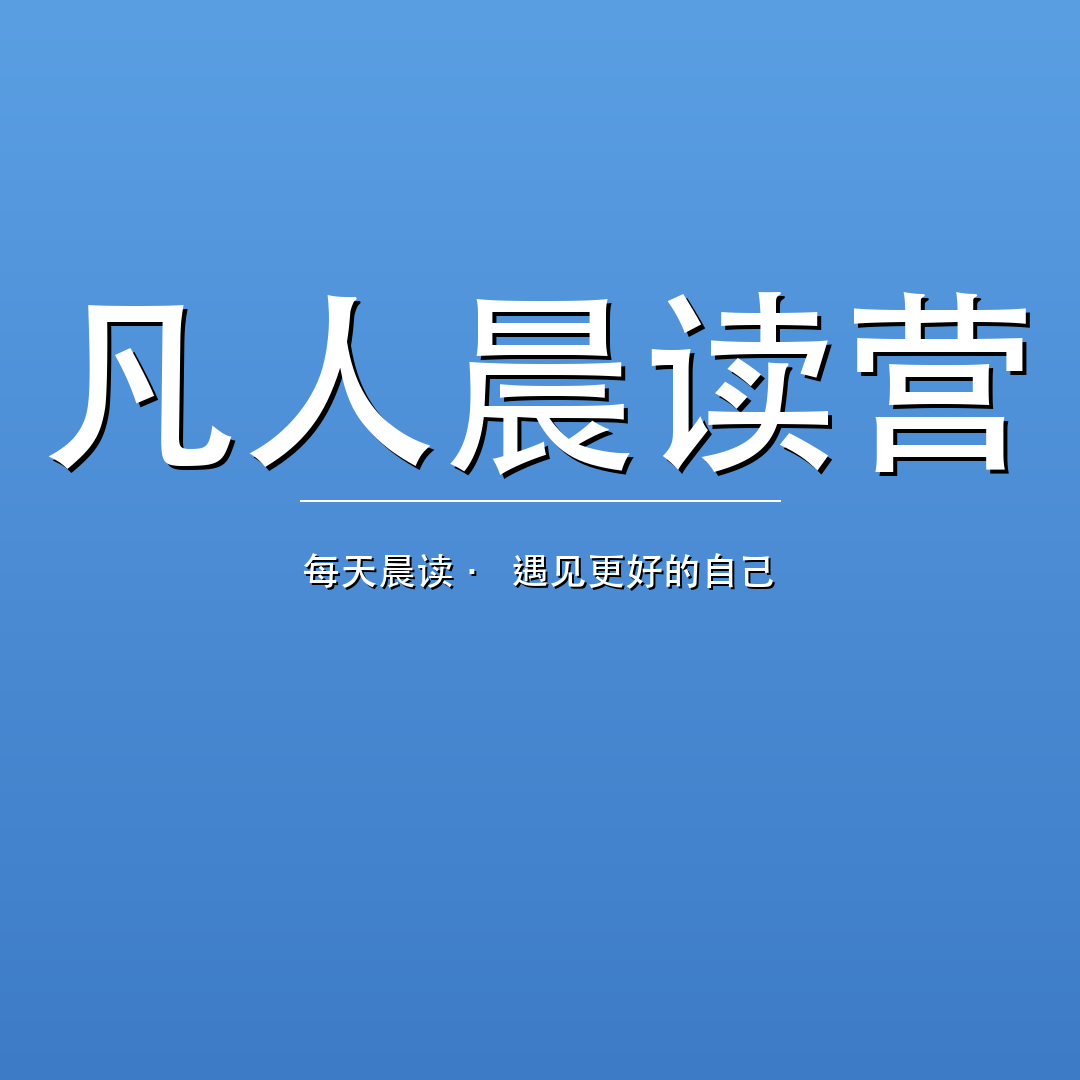
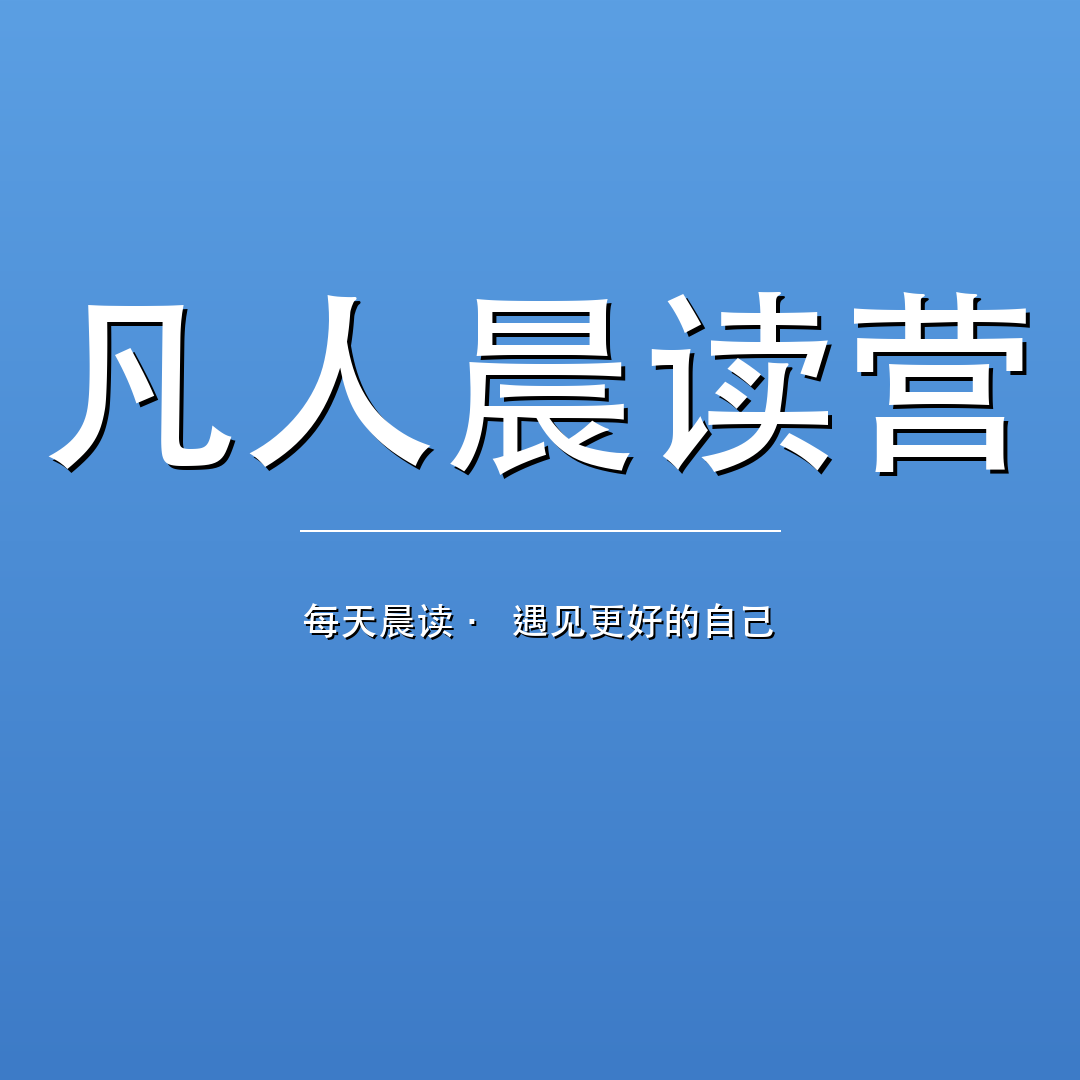
refactor: 微调首页分享图 - 横线和副标题下移
调整:
- 分隔线：从主标题下方 120px → 150px
- 副标题：从分隔线下方 70px → 90px
- 整体视觉更均衡，上下留白更合理

🤖 Generated with Claude Code

Changed region(s): [[0.4583, 0.4889, 0.7333, 0.6111], [0.275, 0.4889, 0.4278, 0.6111]]

diff --git a/generate_share_image.py b/generate_share_image.py
@@ -182,7 +182,7 @@ def generate_default_image():
               fill=(255, 255, 255), font=font_main, anchor='mm')
 
     # ====== 分隔线 ======
-    line_y = title_y + 120  # 主标题下方 120px
+    line_y = title_y + 150  # 主标题下方 150px（下移）
     draw.line(
         [(width // 2 - 240, line_y), (width // 2 + 240, line_y)],
         fill=(255, 255, 255),
@@ -191,7 +191,7 @@ def generate_default_image():
 
     # ====== 副标题：「每天晨读 · 遇见更好的自己」横排 ======
     subtitle = '每天晨读 · 遇见更好的自己'
-    sub_y = line_y + 70  # 分隔线下方 70px
+    sub_y = line_y + 90  # 分隔线下方 90px（下移）
 
     # 绘制阴影
     draw.text((width // 2 + 2, sub_y + 2), subtitle,
